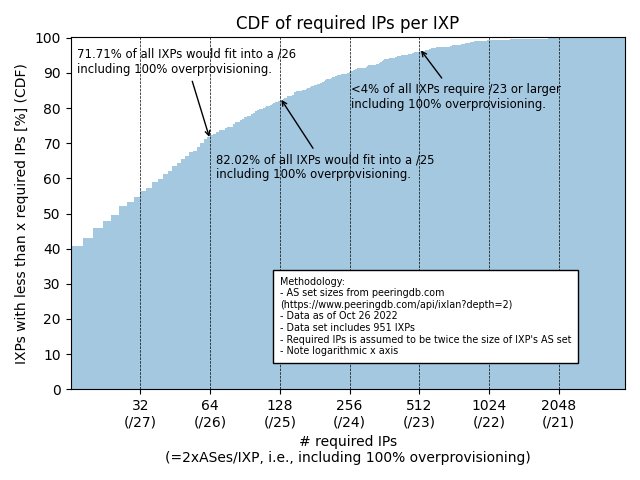
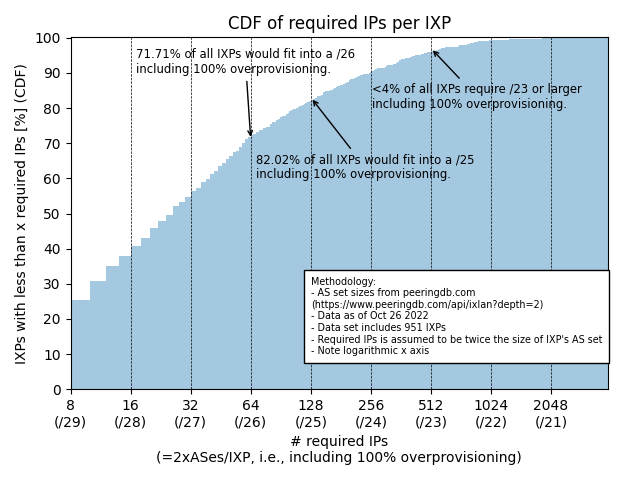
Updated analysis down to /29

diff --git a/analysis.py b/analysis.py
@@ -126,10 +126,10 @@ plt.xscale("log", basex=2)
 plt.title("CDF of required IPs per IXP")
 plt.xlabel("# required IPs\n(=2xASes/IXP, i.e., including 100% overprovisioning)")
 plt.ylabel("IXPs with less than x required IPs [%] (CDF)")
-xticks = [pow(2, x) for x in range(5, 12)]
-xtick_labels = ["%i\n(/%i)" % (pow(2, x), 32-x) for x in range(5, 12)]
+xticks = [pow(2, x) for x in range(3, 12)]
+xtick_labels = ["%i\n(/%i)" % (pow(2, x), 32-x) for x in range(3, 12)]
 plt.xticks(xticks, xtick_labels)
-for i in [pow(2, x) for x in range(5, 12)]:
+for i in [pow(2, x) for x in range(3, 12)]:
     plt.axvline(i, linestyle="--", color="k", linewidth=0.5)
 plt.yticks(np.arange(0.0, 1.1, 0.1), np.arange(0, 110, 10))
 plt.tight_layout()
